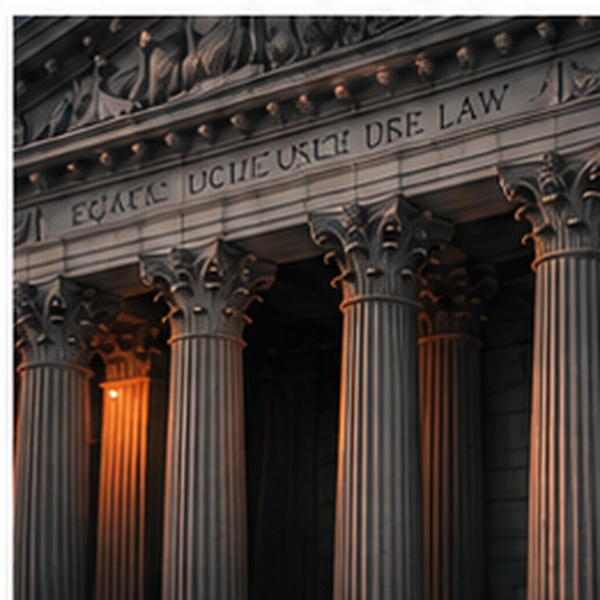
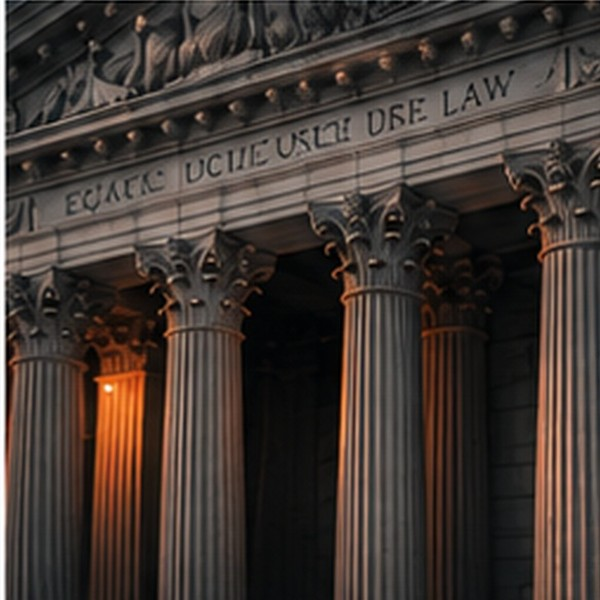
Fix issue photo artifacts (#40)
* Round out issue photo corners (8px -> 24px)

* Replace 10 issue photos: crop leftover AI-caption band

diff --git a/src/components/views/TopIssuesCard.tsx b/src/components/views/TopIssuesCard.tsx
@@ -166,7 +166,7 @@ export function TopIssuesCard({
                     style={{
                       width: 96,
                       height: 96,
-                      borderRadius: 8,
+                      borderRadius: 24,
                       overflow: "hidden",
                       background: C.shell,
                       flex: "0 0 96px",
